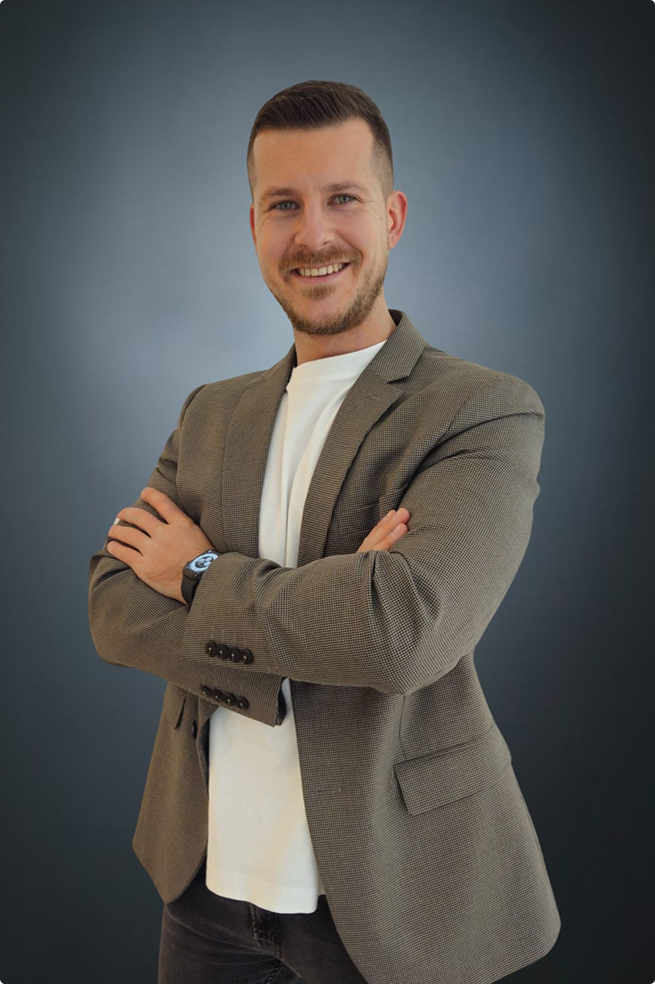
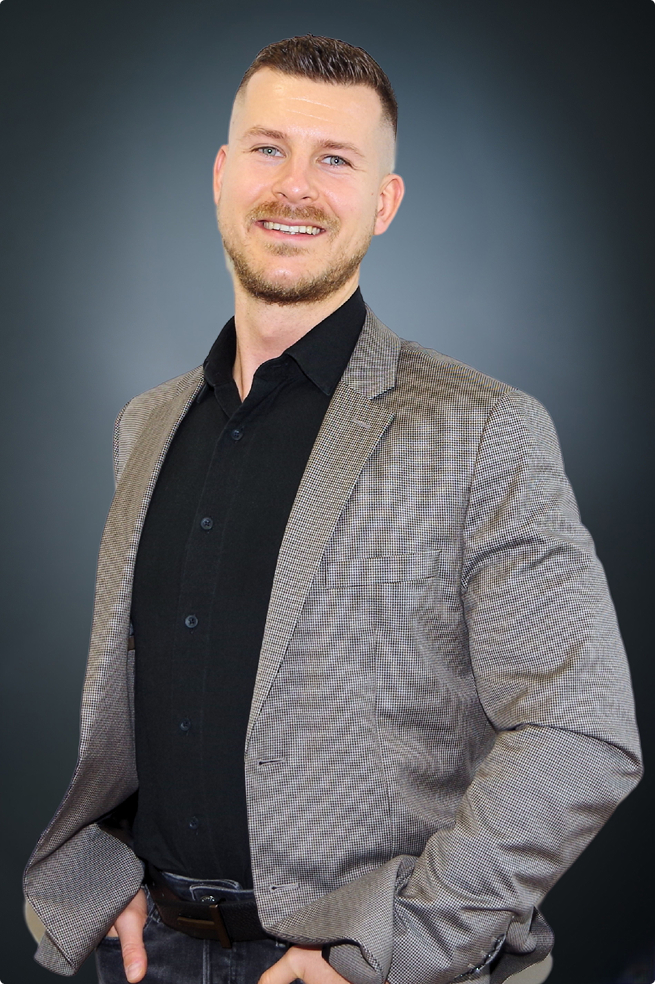
chore: update team member details and add new member section - Modified existing team member descriptions for clarity and detail, enhancing the overall presentation of roles and responsibilities. - Added a new team member, Małgorzata Piszczek, with a detailed description of her role in property mana

diff --git a/content/o-nas.md b/content/o-nas.md
@@ -38,7 +38,7 @@ POZNAJMY SIĘ!
 Wioletta Retko
 
 #role
-prezes zarządu - projektantka wnętrz
+Prezes zarządu - projektantka wnętrz
 
 #description
 Uwielbiam organizować i nadzorować złożone projekty.
@@ -269,11 +269,11 @@ Agata Rybka
 Asystentka Zarządu
 
 #description
-Zajmuję się Tobą i Twoimi potrzebami podczas naszej współpracy, dbając, byś czuł się wysłuchany i zrozumiany.
+Zajmuję się Tobą i Twoimi potrzebami od pierwszego kontaktu, dbając, byś czuł się wysłuchany i zrozumiany.
 
-Dla mnie kluczowe jest, żeby oferta, którą przygotuję, była idealnie dopasowana do Twoich potrzeb.
+Umawiam Cię na konsultację z naszą projektantką, przygotowuję umowy i czuwam nad każdym szczegółem, aby wszystko było dopięte na ostatni guzik.
 
-Możesz liczyć na otwartą komunikację i miłą atmosferę – zawsze dbam o to, by nasza współpraca była nie tylko profesjonalna, ale też przyjemna.
+Możesz liczyć na otwartą komunikację i miłą atmosferę – dbam o to, by nasza współpraca była nie tylko profesjonalna, ale też przyjemna i bezstresowa.
 
 #image
   :::parallax-img{.w-full.h-full.object-cover}
@@ -367,5 +367,59 @@ Wszystkie zadania wykonuję z pełnym zaangażowaniem i serdecznym uśmiechem.
   
   #subtitle
   Współczynnik przedłużenia umów
+  :::
+::
+
+::team-member
+#section-title
+ZARZĄDZANIE NAJMEM
+
+#name
+Małgorzata Piszczek
+
+#role
+Spec. ds. Zarządzania Najmem
+
+#description
+Moim celem jest zapewnienie właścicielom nieruchomości spokoju, a najemcom komfortu. W ścisłej współpracy z naszymi projektantkami przygotuję Twoje mieszkanie do wynajmu, aby jak najlepiej je wynająć i przyciągnąć odpowiednich najemców. 
+
+Dobrze zaprojektowane wnętrze zwiększa zainteresowanie najemców i pozwala uzyskać wyższy przychód z najmu. Każde zadanie realizuję z pełnym zaangażowaniem i dbałością o detale.
+
+#image
+  :::parallax-img{.w-full.h-full.object-cover}
+  ![Małgorzata Piszczek - Spec. ds. Zarządzania Najmem](/team/malgorzata-piszczek.jpg)
+  :::
+
+#achievements
+  :::achievement
+  #title
+  95%
+  
+  #subtitle
+  Wzrost zainteresowania po aranżacji
+  :::
+
+  :::achievement
+  #title
+  20%+
+  
+  #subtitle
+  Średni wzrost czynszu po remoncie
+  :::
+
+  :::achievement
+  #title
+  50+
+  
+  #subtitle
+  Przygotowanych mieszkań
+  :::
+
+  :::achievement
+  #title
+  98%
+  
+  #subtitle
+  Zadowolonych właścicieli
   :::
 ::
